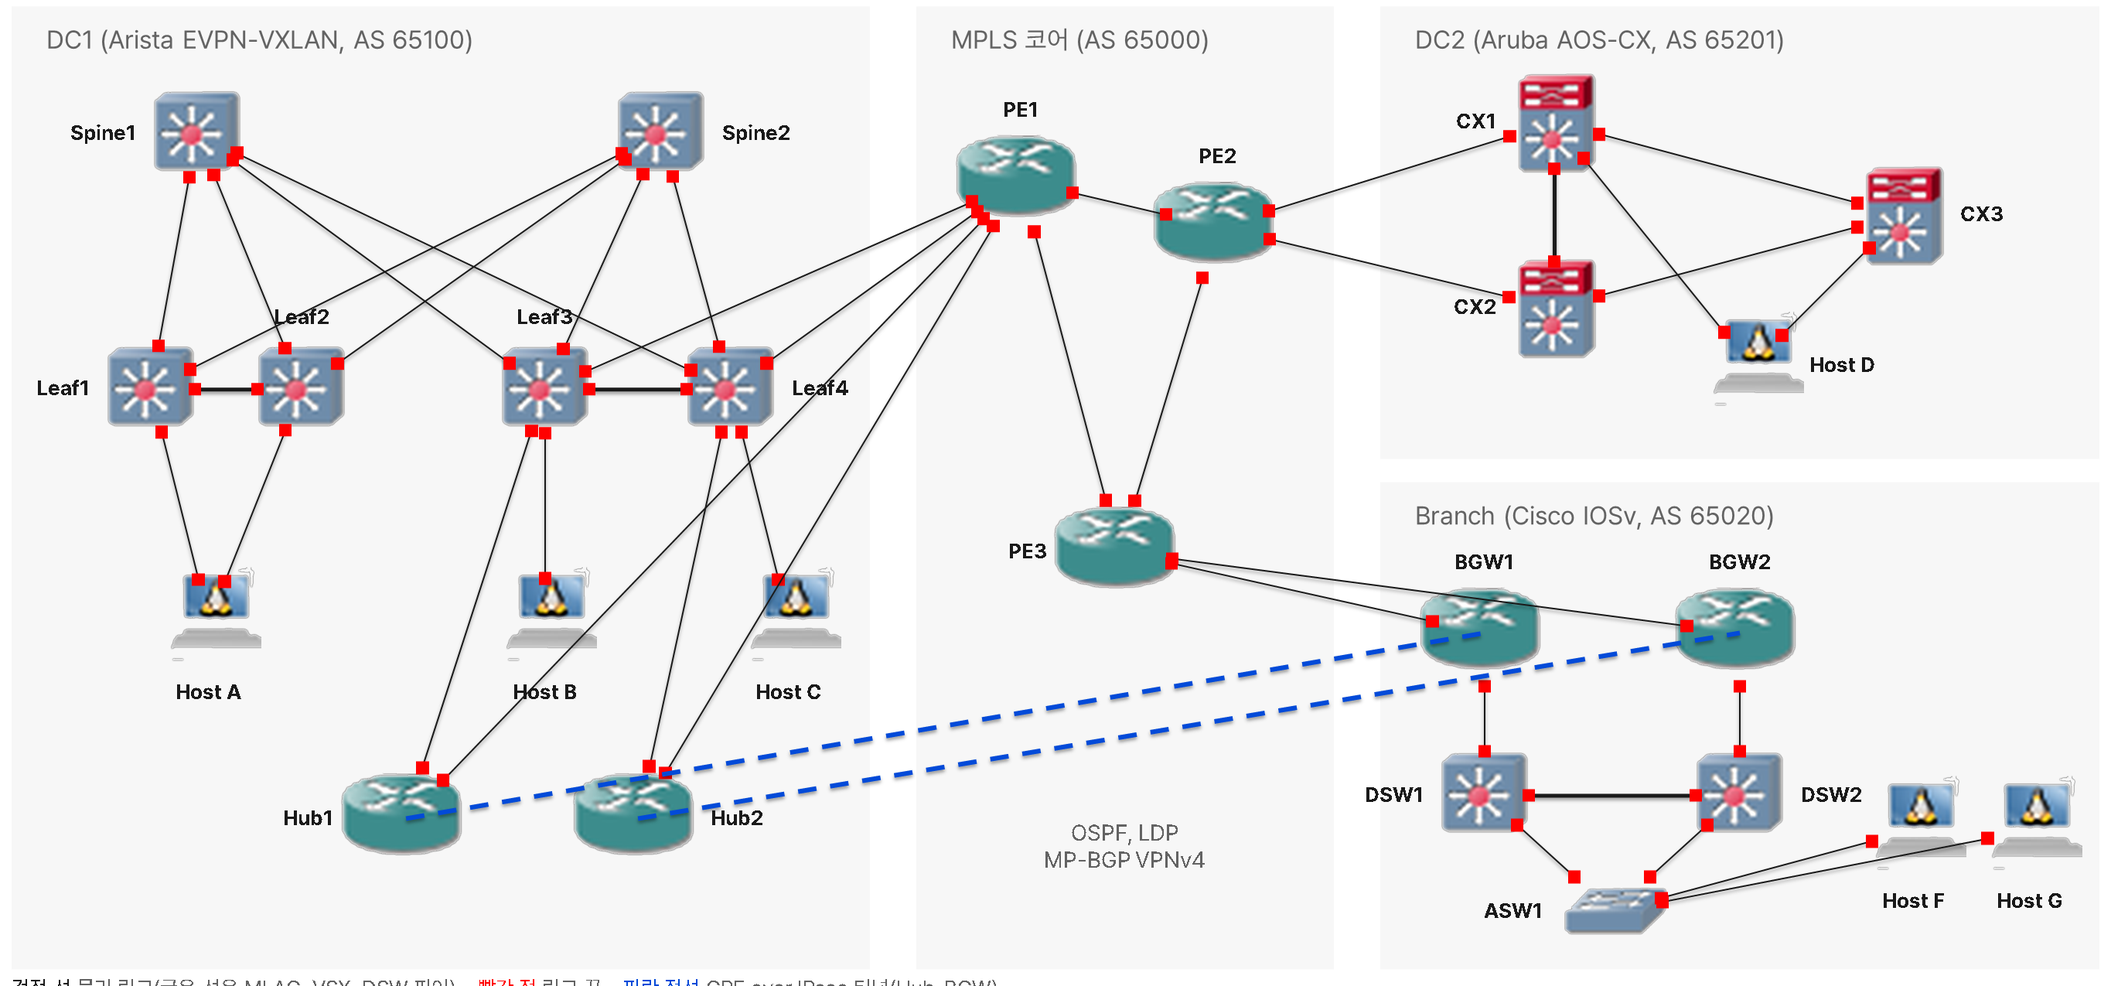
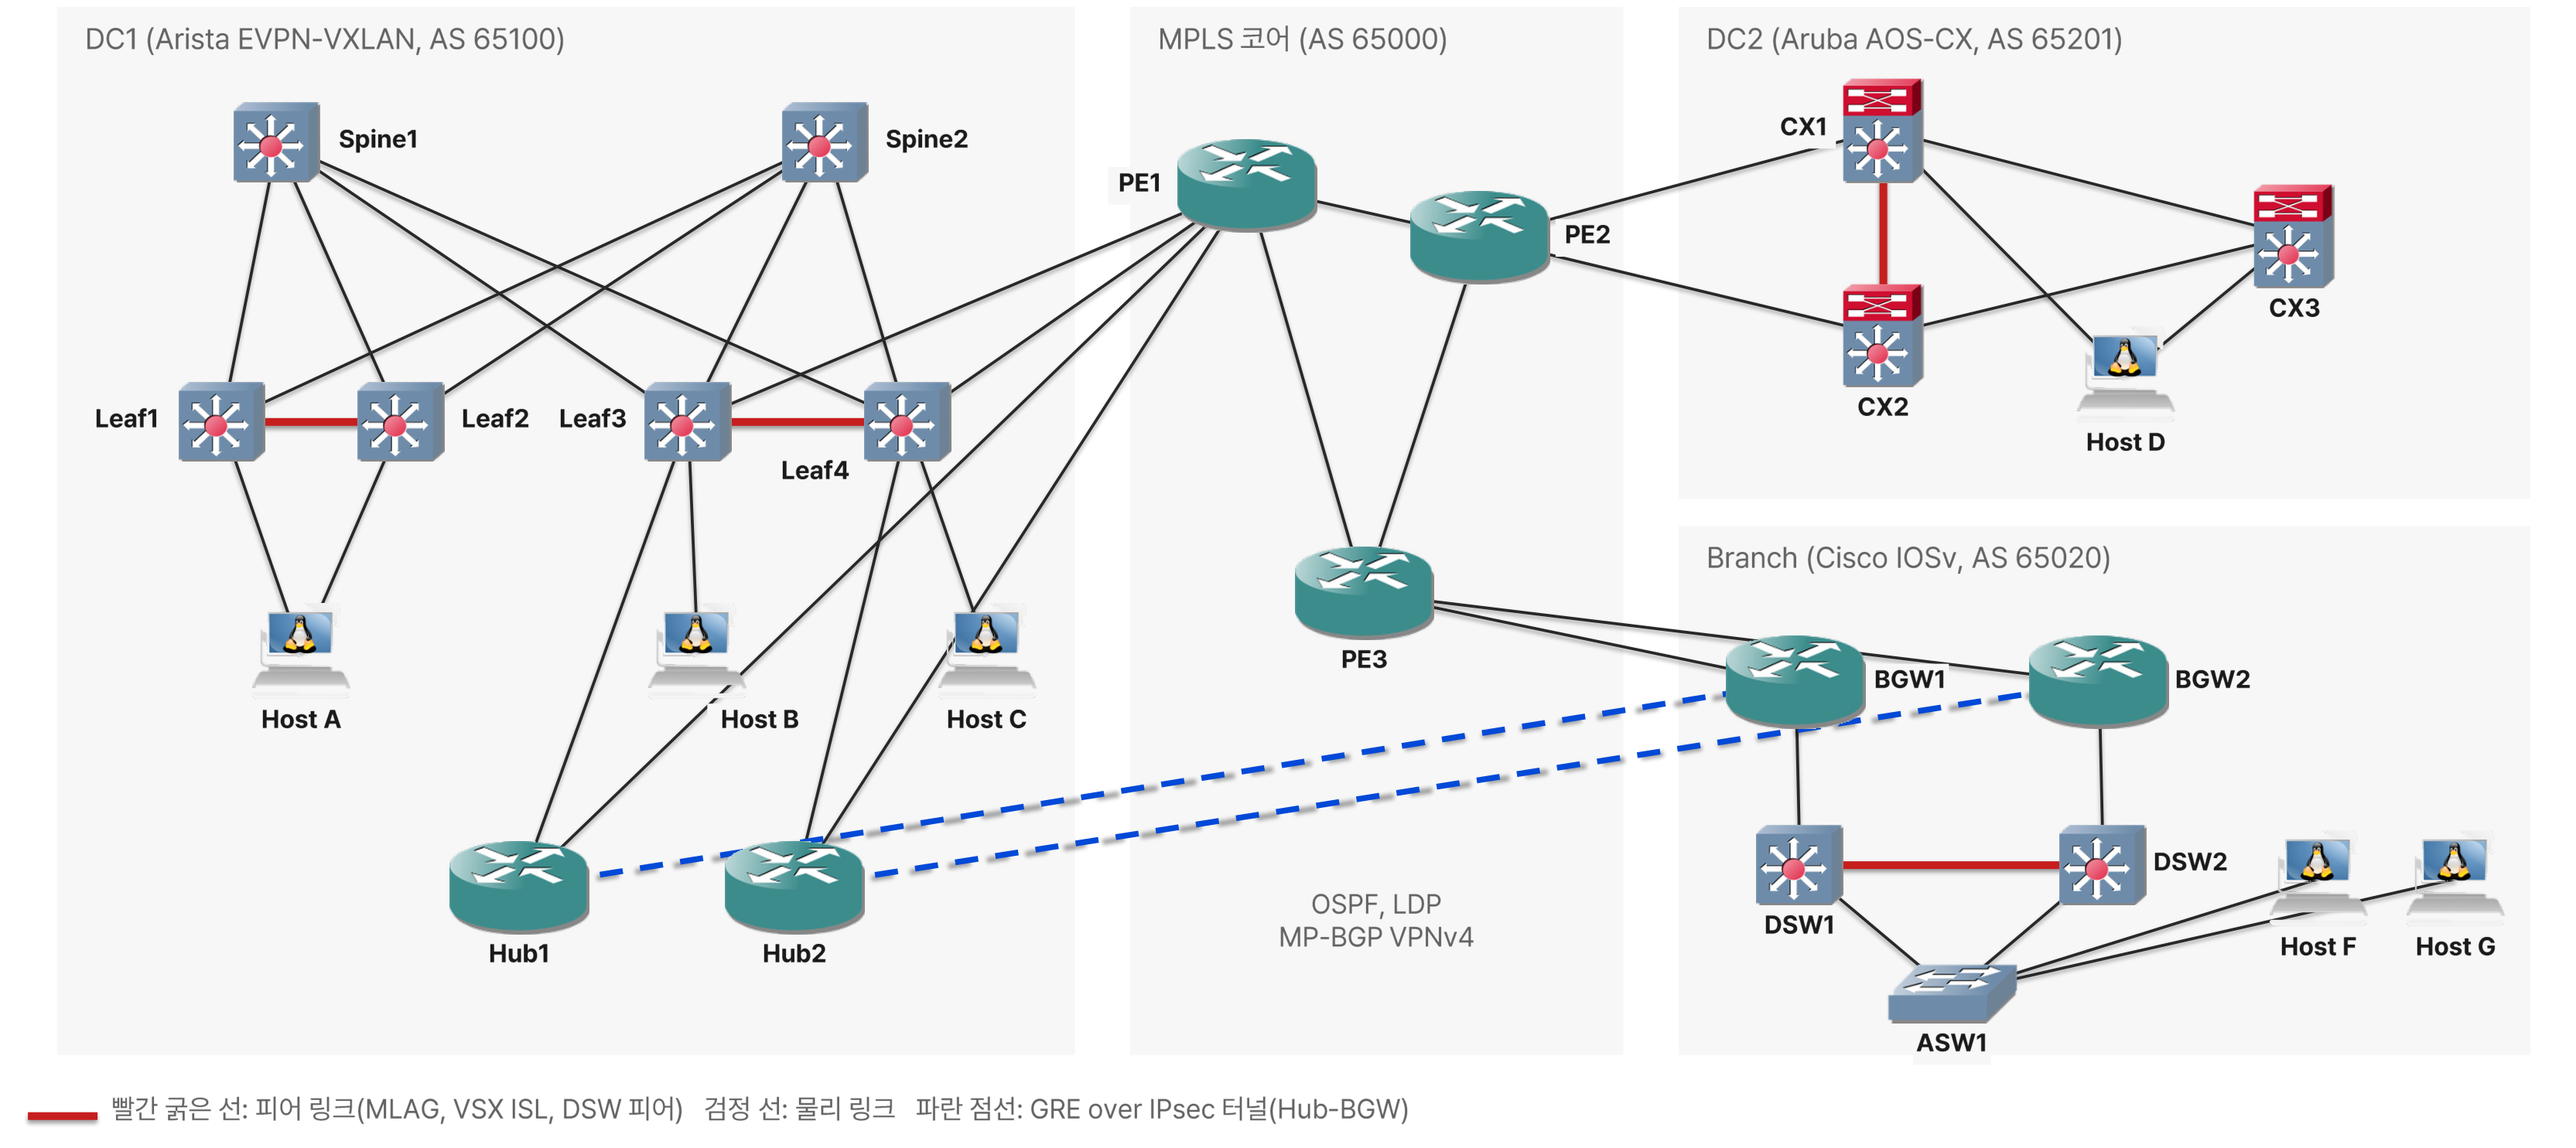
QoS 재시험 증빙과 논리 구성도 이미지 갱신

diff --git a/verification/core/08-qos.md b/verification/core/08-qos.md
@@ -118,6 +118,22 @@
 |---|---|---|
 | ![상태 3 PE1](images/08-qos/state3-netctrl-pe1-policy-map.png) | ![상태 3 EF](images/08-qos/state3-netctrl-ef-probe.png) | ![상태 3 UDP](images/08-qos/state3-netctrl-host-d-udp-receiver.png) |
 
+## 증빙: 상태 3 + `NETCTRL` 재시험 (`SHAPE-400K`, 장비 재부팅 후)
+
+- 장비를 다시 부팅한 뒤 같은 조건(Host A -> Host D `iperf3 -u -b 800k -l 1200 -t 60`)으로 다시 시험하고, `terminal length 0` 후 `show policy-map interface gigabitethernet 0/0 output`으로 전체 정책을 한 번에 수집함
+- 부모 `class-default`(`SHAPE-400K`): 4889 packets, offered 145000 bps, **drop rate 63000 bps**, `queue depth/total drops/no-buffer drops` **0/1820/0**, shape(average) cir 400000
+- 자식 `CORE-OUT`:
+  - **VOICE-EXP 70 packets, 6860 bytes**, 우선 큐 드롭 **0**, `b/w exceed drops: 0`
+  - `CRITICAL-EXP`, `BUSINESS-EXP` 0 packets(해당 트래픽 없음)
+  - **NETCTRL 195 packets, 25697 bytes**, 드롭 **0/0/0**. 분류는 `match dscp cs6` 195개, `mpls experimental topmost 6`은 0개
+  - 자식 `class-default` 4624 packets, **드롭 1820**(flowdrops 1820), 출력 2804 packets
+- Host D UDP 수신: **2.31 MBytes, 313 Kbit/sec, Lost/Total 2876/4896 (59%)**, jitter 1323 ms, 순서가 바뀐 데이터그램 1804개
+- 해석: 혼잡 드롭 1820개가 **전부 class-default**에서 나고 VOICE-EXP와 NETCTRL의 드롭은 0으로 3회차와 같은 결과. 카운터 절대값은 부팅 이후 누적 범위가 달라 3회차와 다름. 이 회차는 EF 프로브(`ping -Q 184`)를 수집하지 않아 지연은 비교하지 않음
+
+| PE1 정책 카운터 (1/2) | PE1 정책 카운터 (2/2) |
+|---|---|
+| ![재시험 카운터 1](images/08-qos/state3-rerun-core-out-1.png) | ![재시험 카운터 2](images/08-qos/state3-rerun-core-out-2.png) |
+
 ## 증빙: 상태 2 재시험 (`SHAPE-ONLY`, 4회차)
 
 - PE1 `show policy-map interface gigabitethernet 0/0`: `Service-policy output: SHAPE-ONLY`, `class-default` **5179 packets, 6058995 bytes**, offered 159000 bps, **drop rate 79000 bps**, 총 드롭 **0/2408/0**, 출력 2771 packets

diff --git a/docs/03-verification-results.md b/docs/03-verification-results.md
@@ -23,7 +23,7 @@
 
 ### EVPN-VXLAN: L2VNI 10010 캡처
 
-외부 UDP 4789, 외부 주소 10.1.1.12 → 10.1.1.34, VNI 10010, 안쪽 ICMP
+외부 UDP 4789, 외부 주소 10.1.1.34 → 10.1.1.12(leaf3·4 → leaf1·2), VNI 10010, 안쪽 ICMP(Host B → Host A)
 
 ![VXLAN 캡처](../verification/dc1/images/03-evpn-vxlan/wireshark-vxlan-vni10010.png)
 
@@ -45,9 +45,11 @@
 
 ### QoS: 혼잡 중 클래스별 카운터
 
-VOICE-EXP 드롭 0, NETCTRL 드롭 0, class-default 드롭 2238
+VOICE-EXP 드롭 0, NETCTRL 드롭 0, class-default 드롭 1820(장비 재부팅 후 재시험, 3회차 첫 시험은 2238로 같은 결과)
 
-![PE1 정책 카운터](../verification/core/images/08-qos/state3-netctrl-pe1-policy-map.png)
+![PE1 정책 카운터 1](../verification/core/images/08-qos/state3-rerun-core-out-1.png)
+
+![PE1 정책 카운터 2](../verification/core/images/08-qos/state3-rerun-core-out-2.png)
 
 ### Branch ↔ DC 통신
 
